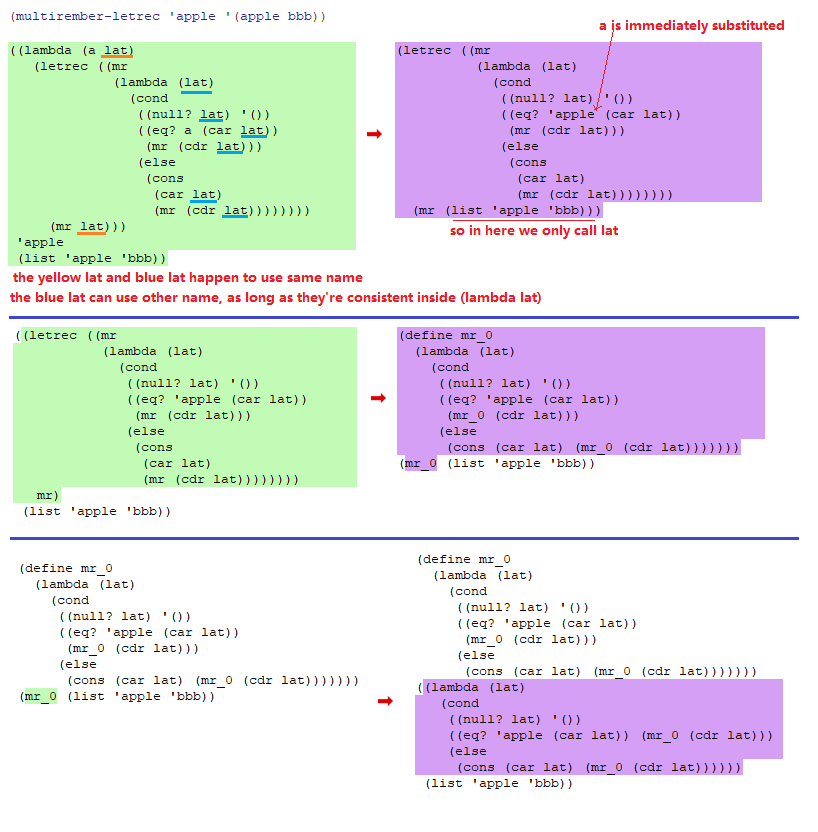
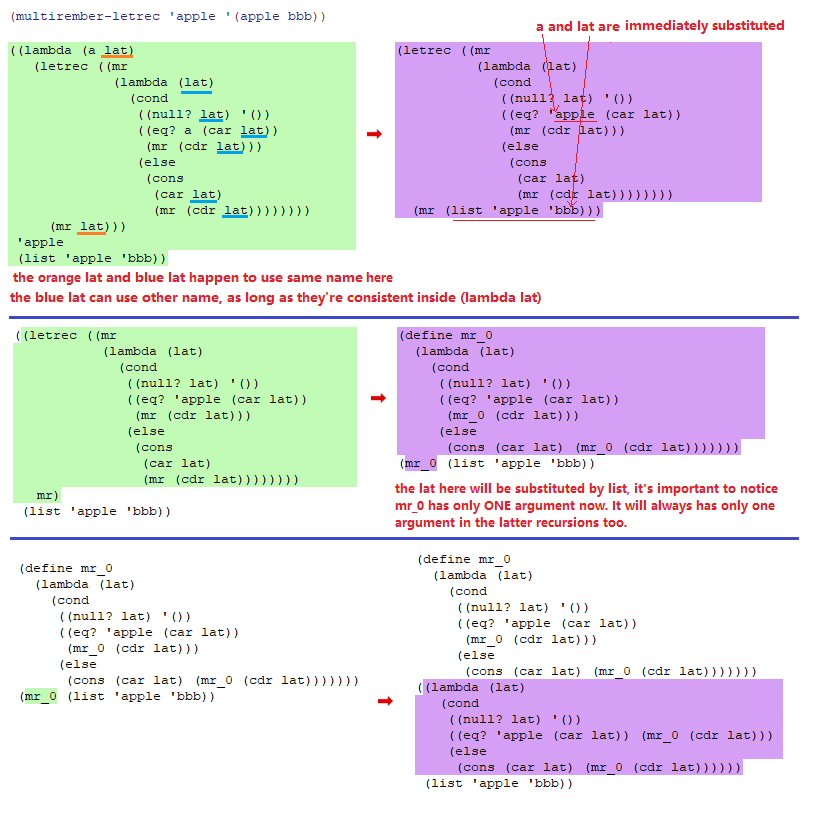
rebuilding site Mon, Jun 22, 2020  1:23:35 AM

diff --git a/content/post/The-seasoned-schemer.md b/content/post/The-seasoned-schemer.md
@@ -1,7 +1,7 @@
 +++
 title = "The Seasoned Schemer learning note (1/3)"
 date = 2020-06-14T01:13:00+01:00
-lastmod = 2020-06-21T02:04:26+01:00
+lastmod = 2020-06-22T01:23:20+01:00
 categories = ["TECH"]
 draft = false
 image = "img/111.jpg"
@@ -141,10 +141,19 @@ And another case of selecting reversed items base on the number of the atom.
 (scramble '(1 2 3 1 2 3 4 1 8 2 10))    ; '(1 1 1 1 1 1 1 1 2 8 2)
 {{< /highlight >}}
 
+---
+
 
 ## Chapter 12 Take Cover {#chapter-12-take-cover}
 
-In this chapter we reform previous function to seperate values.
+In this chapter we reform previous function to seperate values. There has been a
+issue left since we introduced lambda expressions and recursions: redundancy.
+Lots of similar parameters are called/updated with unnecessary amount of
+times, which are at expense of time, space or reading complexity. In
+next few chapters, we will see a few different ways designed to alleviate this issue.
+
+The first way is to use `(letrec)` with lexical closure to wrap function
+in function to make the outer function with clearer shape.
 
 Let's firstly
 review Y combinator:
@@ -243,7 +252,7 @@ because we did not specify _a_ in `(multirember)`. The third part is procedure w
 'c '(c d))
 {{< /highlight >}}
 
-How do we write function achieve the code we want? The difference between the
+How do we organize code to achieve the function we want? The difference between the
 right and wrong function is holding the argument substitution until after applying
 the `(mr)` function. Apart from using layer by layer lambda functions, we can use `(letrec)` to define:
 
@@ -479,10 +488,10 @@ a inner layer of the function `(U)`:
       (U set1))))
 {{< /highlight >}}
 
-Another example we've seem is `(two-in-a-row)`, let's try rewrite it with letrec
+Another example we've seem is `(two-in-a-row)`, let's try rewrite it with `(letrec)`
 too. Last time our final definition is: defining recursive function `(two-in-a-row-b?)` first, then
 call it in `(two-in-a-row-final?)`. At here, the separation of two function is
-no long for distinguishing changing and unchanged variables, but to separate
+no longer for distinguishing changing and unchanged variables, but to separate
 procedures as black box to for future purpose.
 
 {{< highlight scheme >}}
@@ -530,3 +539,23 @@ procedures as black box to for future purpose.
 ; Test two-in-a-row-2?
 (two-in-a-row-2? '(Italian sardines spaghetti parsley))
 {{< /highlight >}}
+
+And `(sum-of-prefixes)` can be rewrite like this:
+
+{{< highlight scheme >}}
+(define sum-of-prefixes
+  (lambda (tup)
+    (letrec
+      ((S (lambda (sss tup)
+            (cond
+              ((null? tup) '())
+              (else
+                (cons (+ sss (car tup))
+                      (S (+ sss (car tup)) (cdr tup))))))))
+      (S 0 tup))))
+
+(sum-of-prefixes '(2 1 9 17 0))   ; '(2 3 12 29 29)
+{{< /highlight >}}
+
+The applying procedures for the first steps are:
+![](/img/seasoned102.png)

diff --git a/content/post/Hugo blogging with Ox-hugo.md b/content/post/Hugo blogging with Ox-hugo.md
@@ -2,7 +2,7 @@
 title = "Hugo blogging with Ox-hugo 【用 ox-hugo 在 Emacs 中搭建网站流】"
 summary = "My personal experience of blogging with Emacs/Spacemacs and plug-in ox-hugo, along with some explanation of Hugo's working structure."
 date = 2019-07-16T01:03:00+01:00
-lastmod = 2020-06-21T02:04:22+01:00
+lastmod = 2020-06-22T01:23:16+01:00
 tags = ["Hugo", "Ox-hugo"]
 categories = ["TECH"]
 draft = false

diff --git a/content/post/org-reveal-solution-for-math-and-code-highlighting-in-presentation-slide.md b/content/post/org-reveal-solution-for-math-and-code-highlighting-in-presentation-slide.md
@@ -2,7 +2,7 @@
 title = "Org-reveal: solution for math and code highlighting in presentation slide 【在 ppt 中展示代码高亮，数学公式的优秀解决方案】"
 summary = "Learning notes and trouble shooting for using org-reveal."
 date = 2019-08-23T22:50:00+01:00
-lastmod = 2020-06-21T02:04:23+01:00
+lastmod = 2020-06-22T01:23:16+01:00
 tags = ["Emacs", "Org-mode"]
 categories = ["TECH"]
 draft = false

diff --git a/content/post/Hugo Blogging with Wercker Auto Build & Deployment.md b/content/post/Hugo Blogging with Wercker Auto Build & Deployment.md
@@ -2,7 +2,7 @@
 title = "Hugo Blogging with Wercker Auto Build & Deployment 【用 Wercker 自动部署网站】"
 summary = "Using Wercker to for automated website code build and deployment"
 date = 2019-07-26T01:02:00+01:00
-lastmod = 2020-06-21T02:04:22+01:00
+lastmod = 2020-06-22T01:23:16+01:00
 tags = ["Hugo", "Git", "Wercker", "Org-mode", "Emacs"]
 categories = ["TECH"]
 draft = false

diff --git a/content/post/Best workaround to use Emacs in MS Windows.md b/content/post/Best workaround to use Emacs in MS Windows.md
@@ -2,7 +2,7 @@
 title = "Best workaround to use Emacs in MS Windows 【在 MS windows 中使用 Emacs 的最佳解决方案】"
 summary = "Experience Emacs with best workaround environment in windows."
 date = 2019-08-16T01:03:00+01:00
-lastmod = 2020-06-21T02:04:23+01:00
+lastmod = 2020-06-22T01:23:16+01:00
 tags = ["Emasc", "Msys2", "Windows10"]
 categories = ["TECH"]
 draft = false

diff --git a/content/post/emacs-line-truncation-in-text-editing-mode.md b/content/post/emacs-line-truncation-in-text-editing-mode.md
@@ -2,7 +2,7 @@
 title = "Overview: Emacs line truncation in text editing 【Emacs org 换行/对齐/排版  汇总指南】"
 summary = "Line visualization and navigation settings in Emacs text editing."
 date = 2019-09-17T12:53:00+01:00
-lastmod = 2020-06-21T02:04:23+01:00
+lastmod = 2020-06-22T01:23:17+01:00
 tags = ["Emacs", "Org-mode"]
 categories = ["TECH"]
 draft = false

diff --git a/content/post/using-aspell-in-windows-10-and-emacs-26-above.md b/content/post/using-aspell-in-windows-10-and-emacs-26-above.md
@@ -2,7 +2,7 @@
 title = "Using aspell in windows 10 and Emacs 26 above 【拼写检查 Emacs26 使用更新版 aspell】"
 summary = "Installing aspell for Emacs 26+ in windows system."
 date = 2019-09-13T01:34:00+01:00
-lastmod = 2020-06-21T02:04:23+01:00
+lastmod = 2020-06-22T01:23:17+01:00
 tags = ["Emacs", "Spacemacs", "Windows10"]
 categories = ["TECH"]
 draft = false

diff --git a/content/post/source-code-pro-in-ubuntu-mswindows.md b/content/post/source-code-pro-in-ubuntu-mswindows.md
@@ -2,7 +2,7 @@
 title = "Installing Source Code Pro in Ubuntu and MS Windows platform 2019 【2019 版 Source Code Pro 字体安装指南】"
 summary = "Installing source code pro and trouble shooting."
 date = 2019-09-03T21:53:00+01:00
-lastmod = 2020-06-21T02:04:23+01:00
+lastmod = 2020-06-22T01:23:17+01:00
 tags = ["Ubuntu"]
 categories = ["TECH"]
 draft = false

diff --git a/content/post/using-anki-editor-to-build-flashcard-in-org-mode.md b/content/post/using-anki-editor-to-build-flashcard-in-org-mode.md
@@ -1,7 +1,7 @@
 +++
 title = "Using Anki-editor to build flashcard in Emacs Org-mode 【用 Anki-editor 在 Emacs Org-mode 中生成复杂记忆卡片】"
 date = 2019-09-30T23:54:00+01:00
-lastmod = 2020-06-21T02:04:24+01:00
+lastmod = 2020-06-22T01:23:17+01:00
 tags = ["windows", "org-mode", "Anki", "Emacs"]
 categories = ["TECH"]
 draft = false

diff --git a/content/post/Text-based-file-management-in-emacs.md b/content/post/Text-based-file-management-in-emacs.md
@@ -2,7 +2,7 @@
 title = "Text based file management in Emacs 【Emacs 文本文件管理】"
 summary = "Overview of text process tools in org-mode."
 date = 2019-09-22T23:56:00+01:00
-lastmod = 2020-06-21T02:04:23+01:00
+lastmod = 2020-06-22T01:23:17+01:00
 draft = false
 image = "img/111.jpg"
 +++

diff --git a/content/post/mastering-emacs-in-21-days-learning-notes-day.md b/content/post/mastering-emacs-in-21-days-learning-notes-day.md
@@ -2,7 +2,7 @@
 title = "Essentials in vanilla Emacs 【Vanilla Emacs 精华简介】"
 summary = "Learning notes about Emacs."
 date = 2019-08-25T23:51:00+01:00
-lastmod = 2020-06-21T02:04:23+01:00
+lastmod = 2020-06-22T01:23:16+01:00
 tags = ["Emacs"]
 categories = ["TECH"]
 draft = false

diff --git a/content/post/deduction-of-poisson-process.md b/content/post/deduction-of-poisson-process.md
@@ -1,7 +1,7 @@
 +++
 title = "Deduction of Poisson process 【泊松过程推导】"
 date = 2019-10-15T02:34:00+01:00
-lastmod = 2020-06-21T02:04:24+01:00
+lastmod = 2020-06-22T01:23:17+01:00
 tags = ["statistics", "stochastic-process", "probability"]
 categories = ["MATH"]
 draft = false
